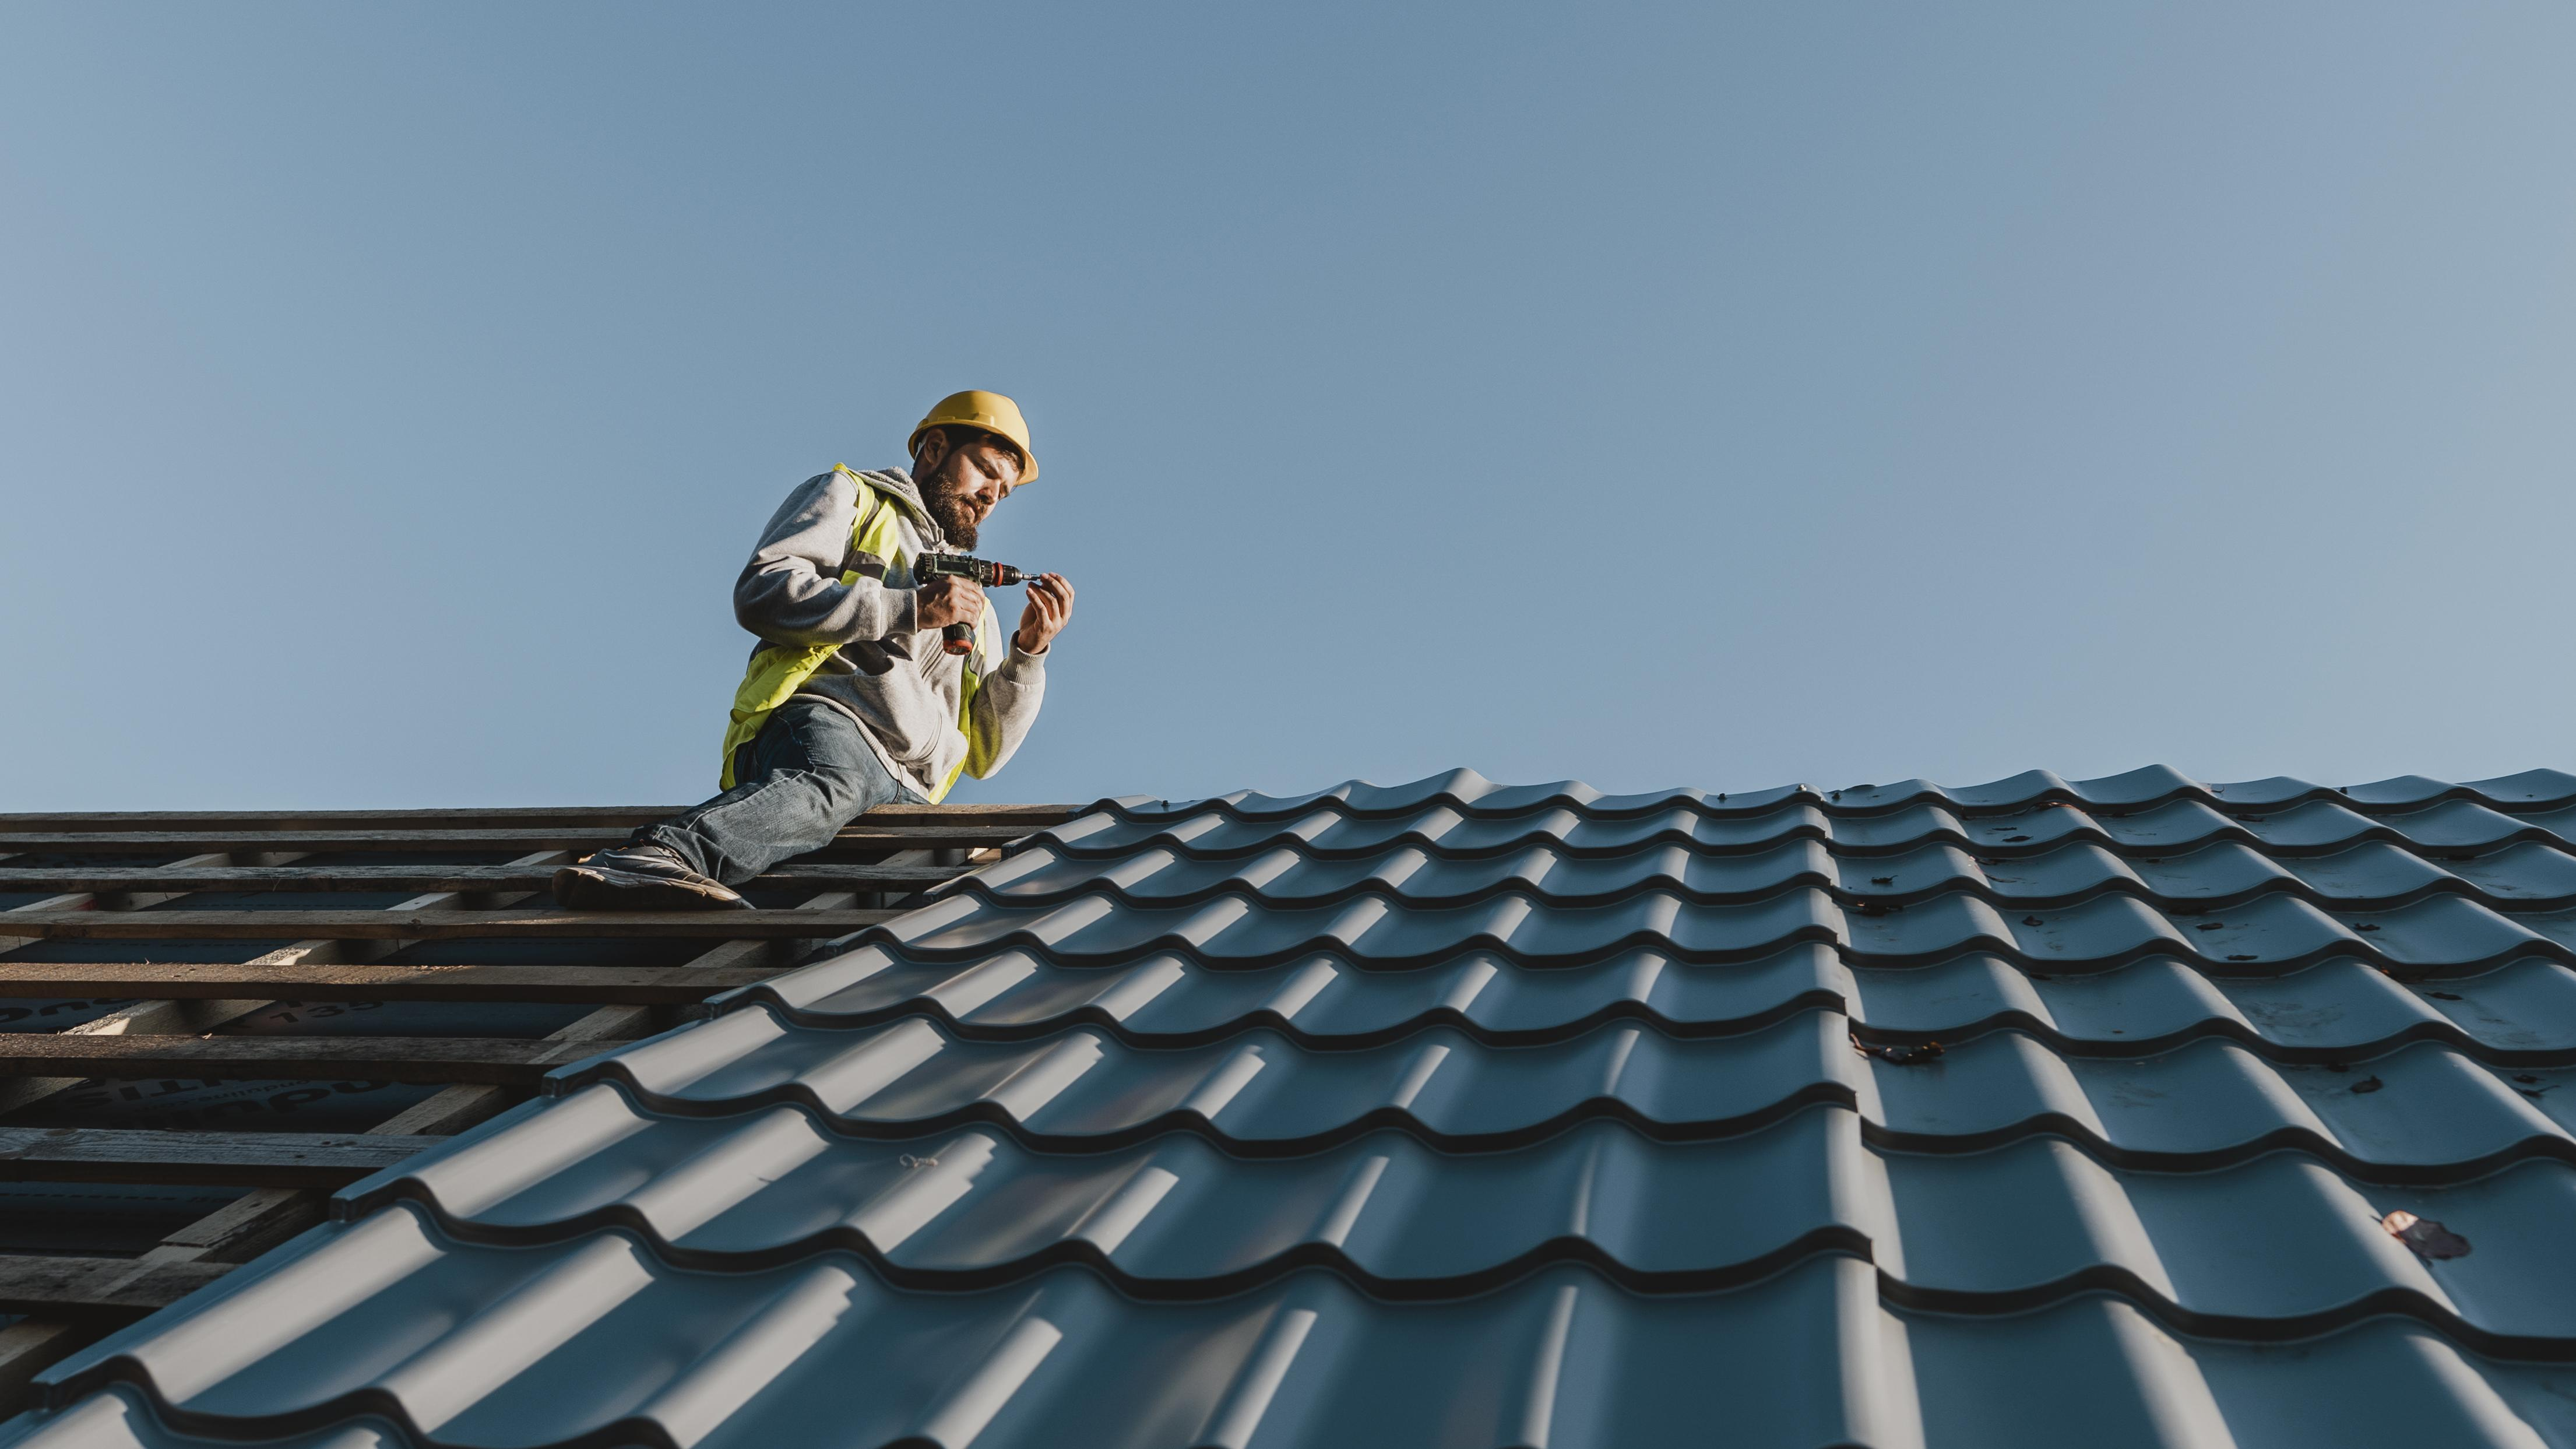
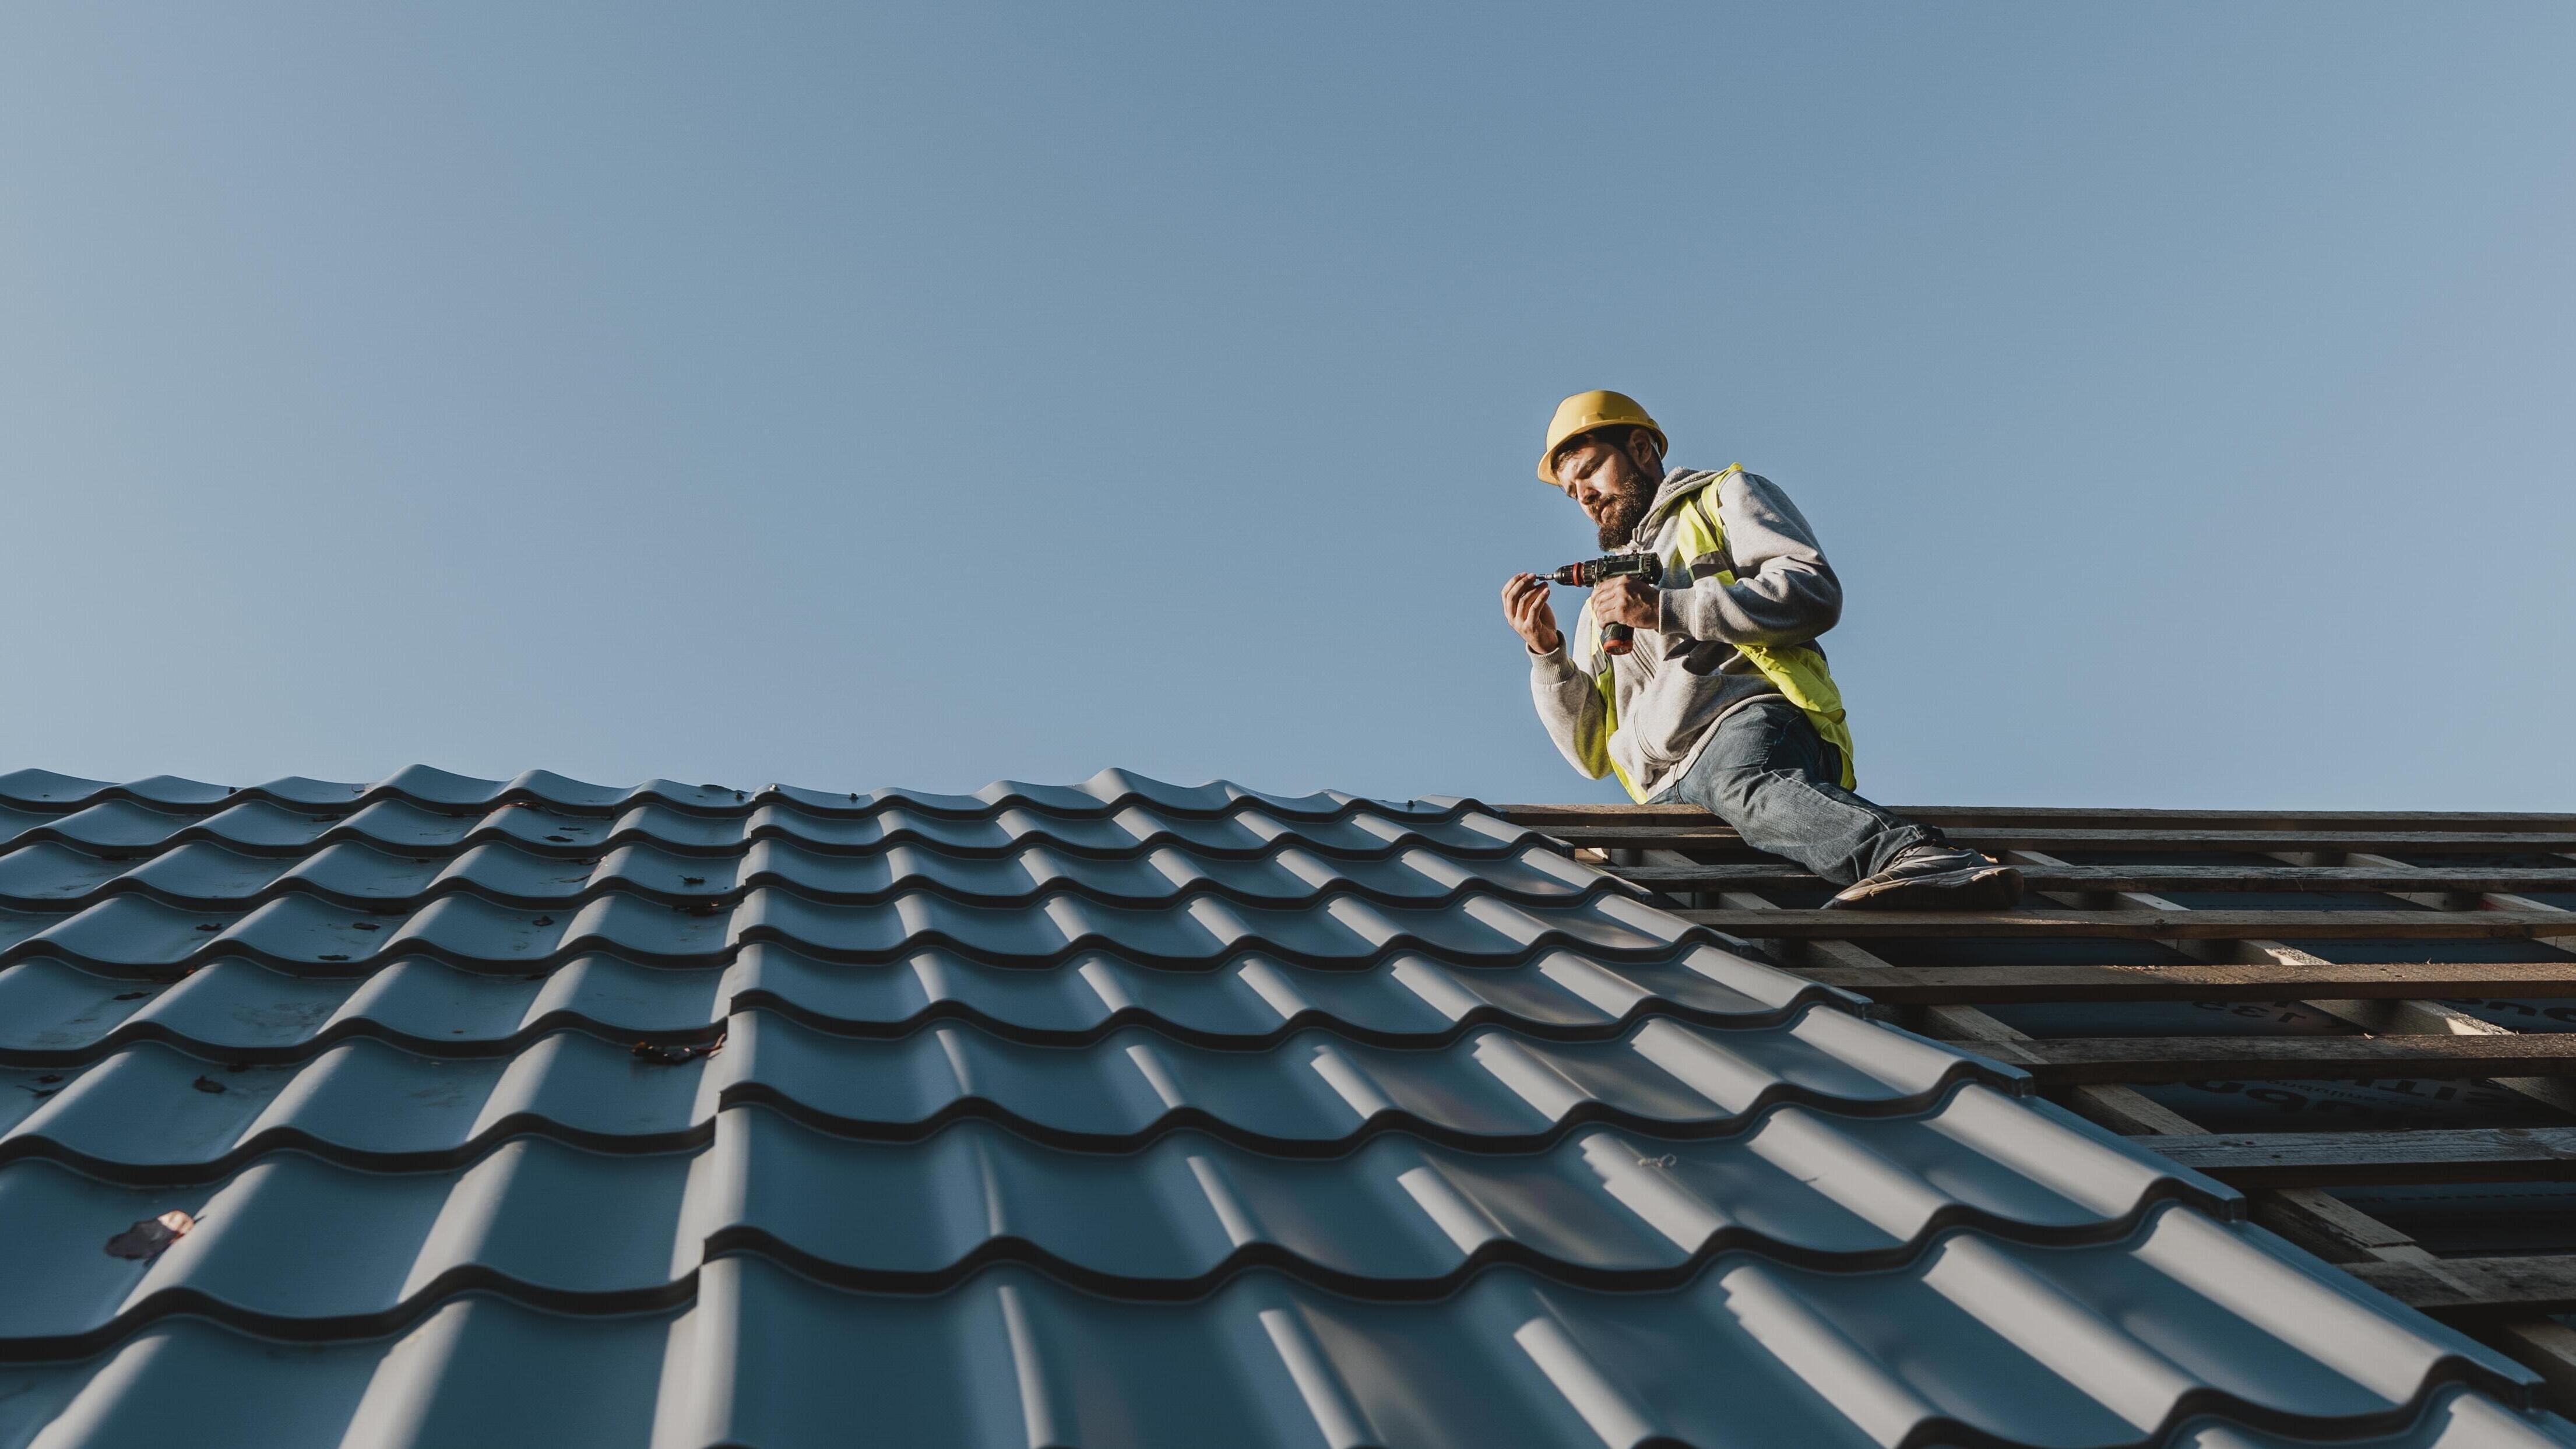
fix

diff --git a/src/components/HeroSection.tsx b/src/components/HeroSection.tsx
@@ -1,5 +1,5 @@
 import { Button } from "@/components/ui/button";
-import { CheckCircle, Star } from "lucide-react"; // Добавил Star для иконок рейтинга
+import { CheckCircle, Star } from "lucide-react"; 
 import { motion } from "framer-motion";
 import heroImg from "@/assets/hero-roofing.jpg";
 
@@ -13,10 +13,11 @@ const benefits = [
 export const HeroSection = () => {
   return (
     <section id="hero" className="relative min-h-screen flex items-center pt-32 pb-20">
+      {/* Фоновое изображение */}
       <div className="absolute inset-0 z-0">
         <img 
           src={heroImg} 
-          alt="Кровельные работы в СПб" 
+          alt="Кровельные работы в Москве и МО" 
           className="w-full h-full object-cover" 
           width={1920} 
           height={1080} 
@@ -24,7 +25,7 @@ export const HeroSection = () => {
         <div className="absolute inset-0" style={{ background: "var(--hero-overlay)" }} />
       </div>
 
-      <div className="container mx-auto px-4 relative z-10">
+      <div className="container mx-auto px-4 relative z-10 h-full flex flex-col justify-center">
         <motion.div
           initial={{ opacity: 0, y: 40 }}
           animate={{ opacity: 1, y: 0 }}
@@ -50,41 +51,34 @@ export const HeroSection = () => {
             ))}
           </div>
 
-          <div className="flex flex-col sm:flex-row gap-4 mb-10">
-            <Button variant="hero" size="lg" asChild>
-              <a href="#quiz">Рассчитать стоимость</a>
-            </Button>
-            <Button 
-              variant="outline" 
-              size="lg" 
-              className="border-2 border-primary-foreground text-primary-foreground bg-transparent hover:bg-primary-foreground/10"
-            >
-              <a href="tel:+78121234567">Позвонить нам</a>
+          <div className="flex flex-col sm:flex-row gap-4">
+            <Button variant="hero" size="lg" className="w-full sm:w-auto" asChild>
+              <a href="#quiz">
+                <span className="md:hidden">Оставить заявку</span>
+                <span className="hidden md:inline">Оставить заявку на бесплатный расчет</span>
+              </a>
             </Button>
           </div>
 
-          {/* Плашки доверия (Яндекс и Авито) */}
-          <motion.div 
+          {/* Плашки на мобилке — в потоке под кнопкой */}
+          <motion.div
             initial={{ opacity: 0 }}
             animate={{ opacity: 1 }}
             transition={{ delay: 1, duration: 0.5 }}
-            className="flex flex-wrap gap-4"
+            className="flex flex-wrap gap-4 mt-10 md:hidden"
           >
-            {/* Яндекс */}
-            <div className="flex items-center gap-3 bg-black/30 backdrop-blur-md border border-white/10 p-2 px-4 rounded-xl">
-              <div className="flex items-center justify-center w-8 h-8 bg-[#f33] rounded-full text-white font-bold text-lg">Я</div>
+            <div className="flex items-center gap-3 bg-black/30 backdrop-blur-md border border-white/10 p-2 px-4 rounded-xl shadow-lg">
+              <div className="flex items-center justify-center w-8 h-8 bg-[#f33] rounded-full text-white font-bold text-lg flex-shrink-0">Я</div>
               <div>
                 <div className="flex items-center gap-1">
                   <span className="text-white font-bold leading-none text-lg">4.9</span>
                   <Star className="w-3 h-3 fill-yellow-400 text-yellow-400" />
                 </div>
-                <p className="text-white/60 text-[10px] uppercase tracking-wider font-medium">Яндекс Карты</p>
+                <p className="text-white/60 text-[10px] uppercase tracking-wider font-medium whitespace-nowrap">Яндекс Карты</p>
               </div>
             </div>
-
-            {/* Авито */}
-            <div className="flex items-center gap-3 bg-black/30 backdrop-blur-md border border-white/10 p-2 px-4 rounded-xl">
-              <div className="flex gap-0.5">
+            <div className="flex items-center gap-3 bg-black/30 backdrop-blur-md border border-white/10 p-2 px-4 rounded-xl shadow-lg">
+              <div className="flex gap-0.5 flex-shrink-0">
                 <div className="w-2 h-2 rounded-full bg-[#96ef00]"></div>
                 <div className="w-2 h-2 rounded-full bg-[#ffbb00]"></div>
                 <div className="w-2 h-2 rounded-full bg-[#00aaee]"></div>
@@ -94,12 +88,45 @@ export const HeroSection = () => {
                   <span className="text-white font-bold leading-none text-lg">5.0</span>
                   <Star className="w-3 h-3 fill-yellow-400 text-yellow-400" />
                 </div>
-                <p className="text-white/60 text-[10px] uppercase tracking-wider font-medium">Авито отзывы</p>
+                <p className="text-white/60 text-[10px] uppercase tracking-wider font-medium whitespace-nowrap">Авито отзывы</p>
               </div>
             </div>
           </motion.div>
         </motion.div>
       </div>
+
+      {/* Плашки на ПК — absolute к section, вне container, не перекрывают кнопку */}
+      <motion.div
+        initial={{ opacity: 0 }}
+        animate={{ opacity: 1 }}
+        transition={{ delay: 1, duration: 0.5 }}
+        className="hidden md:flex flex-wrap gap-4 absolute bottom-4 left-4 z-20"
+      >
+        <div className="flex items-center gap-3 bg-black/30 backdrop-blur-md border border-white/10 p-2 px-4 rounded-xl shadow-lg">
+          <div className="flex items-center justify-center w-8 h-8 bg-[#f33] rounded-full text-white font-bold text-lg flex-shrink-0">Я</div>
+          <div>
+            <div className="flex items-center gap-1">
+              <span className="text-white font-bold leading-none text-lg">4.9</span>
+              <Star className="w-3 h-3 fill-yellow-400 text-yellow-400" />
+            </div>
+            <p className="text-white/60 text-[10px] uppercase tracking-wider font-medium whitespace-nowrap">Яндекс Карты</p>
+          </div>
+        </div>
+        <div className="flex items-center gap-3 bg-black/30 backdrop-blur-md border border-white/10 p-2 px-4 rounded-xl shadow-lg">
+          <div className="flex gap-0.5 flex-shrink-0">
+            <div className="w-2 h-2 rounded-full bg-[#96ef00]"></div>
+            <div className="w-2 h-2 rounded-full bg-[#ffbb00]"></div>
+            <div className="w-2 h-2 rounded-full bg-[#00aaee]"></div>
+          </div>
+          <div>
+            <div className="flex items-center gap-1">
+              <span className="text-white font-bold leading-none text-lg">5.0</span>
+              <Star className="w-3 h-3 fill-yellow-400 text-yellow-400" />
+            </div>
+            <p className="text-white/60 text-[10px] uppercase tracking-wider font-medium whitespace-nowrap">Авито отзывы</p>
+          </div>
+        </div>
+      </motion.div>
     </section>
   );
 };

diff --git a/src/components/CompletedWorksSection.tsx b/src/components/CompletedWorksSection.tsx
@@ -58,7 +58,8 @@ const WorkCard = ({ work, index }: { work: typeof works[0]; index: number }) => 
       transition={{ delay: index * 0.1 }}
       className="bg-card rounded-3xl overflow-hidden border shadow-sm hover:shadow-xl transition-all duration-500 flex flex-col h-full group"
     >
-      <div className="relative h-64 overflow-hidden cursor-pointer" onClick={toggleImage}>
+      {/* ИЗМЕНЕНО: Убрана фиксированная высота h-64. Добавлен аспект 4:3 на мобилках и чистый квадрат aspect-square на ПК */}
+      <div className="relative w-full aspect-[4/3] md:aspect-square overflow-hidden cursor-pointer" onClick={toggleImage}>
         <img 
           src={work.images[currentImageIndex]} 
           alt={work.title} 
@@ -143,7 +144,7 @@ export const CompletedWorksSection = () => {
           </div>
         </div>
 
-        <div className="grid grid-cols-1 sm:grid-cols-2 lg:grid-cols-4 gap-6">
+        <div className="grid grid-cols-1 sm:grid-cols-2 lg:grid-cols-2 gap-6">
           {works.map((w, i) => (
             <WorkCard key={w.title} work={w} index={i} />
           ))}

diff --git a/src/components/Footer.tsx b/src/components/Footer.tsx
@@ -14,8 +14,8 @@ export const Footer = () => {
           <div>
             <h3 className="text-xl font-bold text-secondary-foreground mb-4">Контакты</h3>
             <div className="space-y-3">
-              <a href="tel:+78121234567" className="flex items-center gap-2 text-secondary-foreground/70 hover:text-primary transition-colors">
-                <Phone className="w-4 h-4" /> +7 (812) 123-45-67
+              <a href="tel:+79772519076" className="flex items-center gap-2 text-secondary-foreground/70 hover:text-primary transition-colors">
+                <Phone className="w-4 h-4" /> +7 (977) 251-90-76
               </a>
               <a href="mailto:[email redacted]" className="flex items-center gap-2 text-secondary-foreground/70 hover:text-primary transition-colors">
                 <Mail className="w-4 h-4" /> [email redacted]

diff --git a/src/components/Header.tsx b/src/components/Header.tsx
@@ -23,9 +23,9 @@ export const Header = () => {
       {/* Top bar */}
       <div className="container mx-auto px-4 py-2 flex items-center justify-between text-secondary-foreground text-sm">
         <div className="flex items-center gap-6">
-          <a href="tel:+79991234567" className="flex items-center gap-2 hover:text-primary transition-colors">
+          <a href="tel:+79772519076" className="flex items-center gap-2 hover:text-primary transition-colors">
             <Phone className="w-4 h-4" />
-            <span className="font-semibold text-base">+7 (999) 123-45-67</span>
+            <span className="font-semibold text-base">+7 (977) 251-90-76</span>
           </a>
           <a href="mailto:[email redacted]" className="hidden md:flex items-center gap-2 hover:text-primary transition-colors">
             <Mail className="w-4 h-4" />

diff --git a/src/components/PricingSection.tsx b/src/components/PricingSection.tsx
@@ -78,7 +78,7 @@ export const PricingSection = () => {
             </DialogContent>
           </Dialog>
           <p className="text-section-dark-foreground/70">
-            или позвоните нам: <a href="tel:+79991234567" className="text-primary font-bold text-xl hover:underline">+7 (999) 123-45-67</a>
+            или позвоните нам: <a href="tel:+79772519076" className="text-primary font-bold text-xl hover:underline">+7 (977) 251-90-76</a>
           </p>
         </div>
       </div>

diff --git a/src/pages/Index.tsx b/src/pages/Index.tsx
@@ -16,8 +16,8 @@ const Index = () => {
       <HeroSection />
       <QuizSection />
       <ServicesSection />
-      <PortfolioSection />
       <CompletedWorksSection />
+      <PortfolioSection />
       <PricingSection />
       <ReviewsSection />
       <MapSection />